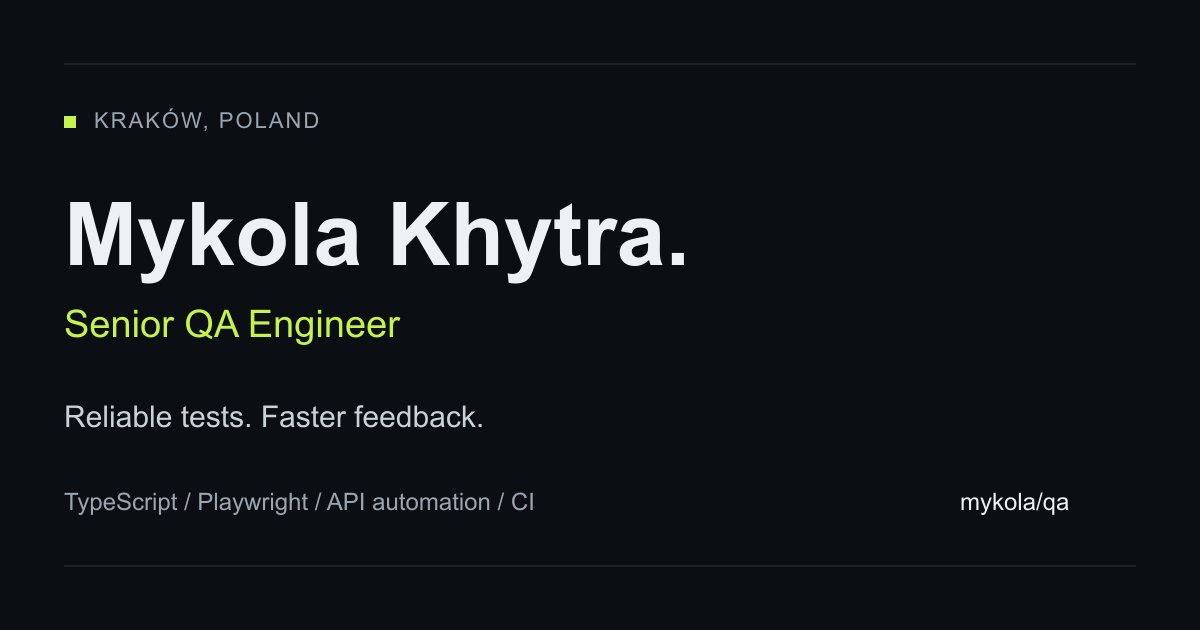
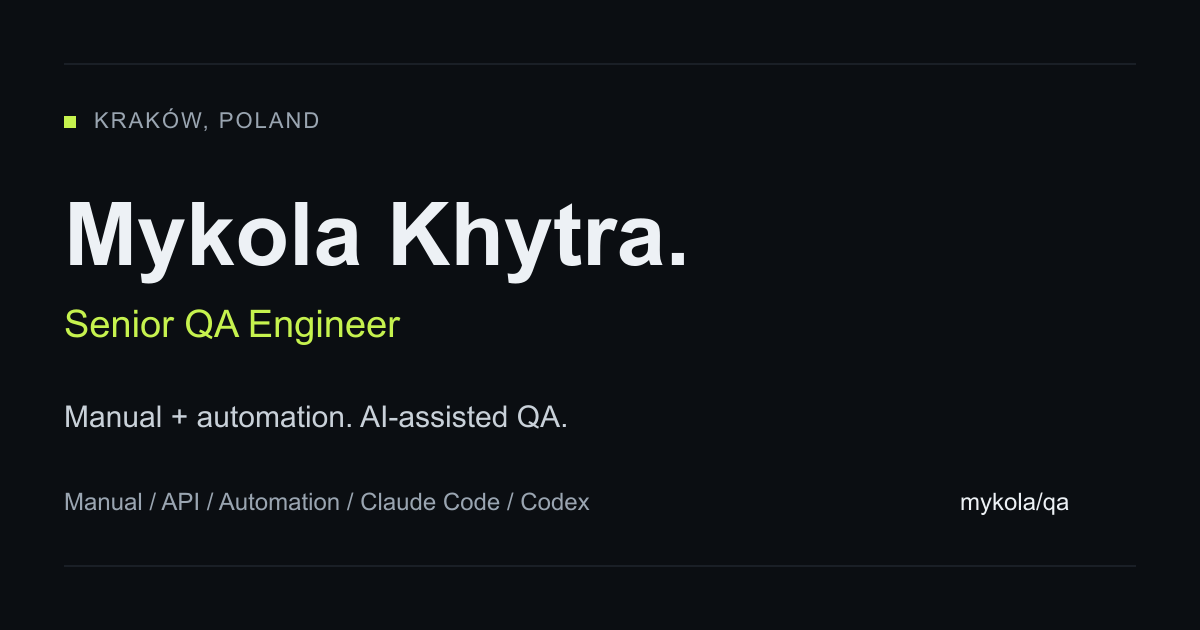
feat: broaden QA positioning and showcase practical AI workflows

Changed region(s): [[0.0617, 0.6333, 0.4625, 0.6937], [0.0308, 0.7841, 0.4933, 0.8143]]

diff --git a/index.html b/index.html
@@ -5,19 +5,19 @@
   <meta name="viewport" content="width=device-width, initial-scale=1" />
   <meta name="color-scheme" content="dark light" />
   <meta name="theme-color" content="#0b0e12" />
-  <meta name="description" content="Mykola Khytra, Senior QA Engineer in Kraków. TypeScript and Playwright automation, API regression testing, and faster CI feedback. Explore practical case studies and download my CV." />
+  <meta name="description" content="Mykola Khytra, Senior QA Engineer in Kraków. Manual, API, and automated testing with practical AI-assisted workflows using Claude Code and Codex." />
   <meta property="og:type" content="profile" />
   <meta property="og:title" content="Mykola Khytra — Senior QA Engineer" />
-  <meta property="og:description" content="Practical quality engineering: reliable API and UI automation, maintainable test suites, and faster CI feedback." />
+  <meta property="og:description" content="Manual, general, and automation QA. Product risks, release validation, and practical AI-assisted workflows with Claude Code and Codex." />
   <meta property="og:image" content="./assets/social-preview.png" />
-  <meta property="og:image:alt" content="Mykola Khytra — Senior QA Engineer. Reliable tests. Faster feedback." />
+  <meta property="og:image:alt" content="Mykola Khytra — Senior QA Engineer. Manual and automation QA, with AI-assisted workflows." />
   <meta property="og:image:width" content="1200" />
   <meta property="og:image:height" content="630" />
   <meta name="twitter:card" content="summary_large_image" />
   <title>Mykola Khytra — Senior QA Engineer</title>
   <link rel="icon" type="image/svg+xml" href="./assets/favicon.svg" />
   <link rel="preload" href="./assets/fonts/space-grotesk-latin-wght-normal.woff2" as="font" type="font/woff2" crossorigin />
-  <link rel="stylesheet" href="./styles.css?v=20261001-1" />
+  <link rel="stylesheet" href="./styles.css?v=20261001-2" />
   <!-- Production metadata is added by the build when a real URL is configured. -->
 </head>
 <body>
@@ -35,7 +35,8 @@
         <p class="eyebrow"><span class="signal-mark" aria-hidden="true"></span>Kraków, Poland</p>
         <h1 id="hero-title">Mykola Khytra.</h1>
         <p class="hero-tagline">Senior QA Engineer who makes releases boring.</p>
-        <p class="hero-lede">API and UI automation with TypeScript and Playwright. Faster CI feedback, clearer failures, and test suites the whole team can maintain.</p>
+        <p class="hero-lede">Manual, API, and automated testing. Product risks, exploratory testing, and confident release decisions.</p>
+        <p class="hero-ai"><span class="mono-label">AI-assisted QA</span> Claude Code &amp; Codex for test design, debugging, and documentation. <a href="#ai-workflow">See the workflow <span aria-hidden="true">→</span></a></p>
         <div class="hero-actions">
           <a class="button button-primary" href="#work">Explore the work <span aria-hidden="true">→</span></a>
           <a class="button button-secondary" href="./assets/downloads/mykola-khytra-cv.pdf" download>Download CV <span class="file-label">PDF</span></a>
@@ -45,7 +46,7 @@
           <div class="stat"><strong>5+</strong><span>years in QA</span></div>
           <div class="stat"><strong>11k+</strong><span>scenarios in a shared test ecosystem</span></div>
           <div class="stat"><strong>Up to 4×</strong><span>faster execution for CI jobs</span></div>
-          <div class="stat"><strong>TS</strong><span>TypeScript + Playwright</span></div>
+          <div class="stat"><strong>QA</strong><span>manual + automation</span></div>
         </div>
       </div>
     </section>
@@ -60,8 +61,28 @@
           </picture>
         </figure>
         <div class="prose about-copy">
-          <p>Five years in QA, growing from manual testing into senior automation engineering at Shelf. My work connects product risks with API and UI coverage, maintainable test code, and actionable CI results.</p>
-          <p>That means more than writing checks: investigating failures, reviewing code, building shared helpers, and leaving documentation other engineers can use. AI tools support the work; technical judgment and verification stay with me.</p>
+          <p>Five years across manual, general, and automation QA, with experience testing web applications, desktop software, APIs, and WebSockets.</p>
+          <p>The work spans the testing lifecycle: understanding product risks, designing tests, exploring behavior, reporting defects, validating releases, and building maintainable automation. AI-assisted workflows support analysis, test design, and implementation.</p>
+        </div>
+      </div>
+    </section>
+    <section id="expertise" class="section section-rule" aria-labelledby="toolbox-title">
+      <div class="container">
+        <div class="section-heading-row compact"><div><p class="eyebrow">Expertise &amp; tools</p><h2 id="toolbox-title">The right approach<br /> for the risk.</h2></div><p class="section-intro">Manual exploration, API checks, and maintainable automation across the QA lifecycle.</p></div>
+        <div class="toolbox-grid">
+          <article class="tool-group"><h3>Manual &amp; product QA</h3><p>Exploratory, functional, smoke, and regression testing. Test design, clear defect reports, and release validation.</p><div class="tag-list"><span class="tag">Test strategy</span><span class="tag">TestRail</span><span class="tag">Testomat</span></div></article>
+          <article class="tool-group"><h3>API &amp; integration QA</h3><p>API and WebSocket testing, business rules, error handling, and defect investigation. Jest, Vitest, and Axios for automated API checks.</p><div class="tag-list"><span class="tag">Postman</span><span class="tag">Swagger</span><span class="tag">REST APIs</span><span class="tag">Axios</span><span class="tag">Jest</span><span class="tag">Vitest</span></div></article>
+          <article class="tool-group"><h3>Automation &amp; delivery</h3><p>UI automation with Playwright and TypeScript. Reusable test code, faster CI feedback, and failure diagnostics.</p><div class="tag-list"><span class="tag">Playwright</span><span class="tag">TypeScript</span><span class="tag">JavaScript</span><span class="tag">CircleCI</span><span class="tag">GitHub Actions</span><span class="tag">Git</span><span class="tag">Datadog</span></div></article>
+        </div>
+      </div>
+    </section>
+    <section id="ai-workflow" class="section section-rule" aria-labelledby="ai-title">
+      <div class="container">
+        <div class="section-heading-row"><div><p class="eyebrow">AI-assisted QA</p><h2 id="ai-title">Practical AI.<br /> Verified results.</h2></div><p class="section-intro">Daily use of Claude Code and Codex for repository analysis, test design, automation code, debugging, and documentation.</p></div>
+        <div class="principles-grid">
+          <article class="principle"><span class="principle-icon" aria-hidden="true">01 / EXPLORE</span><h3>Understand the context</h3><p>Explore repositories, develop test ideas, and investigate failures with AI assistance. Product risks and existing behavior guide the questions.</p></article>
+          <article class="principle"><span class="principle-icon" aria-hidden="true">02 / DRAFT</span><h3>Build and improve</h3><p>Draft and maintain test code, refactor shared utilities, and prepare documentation. Use agents to support repeatable QA work and problem analysis.</p></article>
+          <article class="principle"><span class="principle-icon" aria-hidden="true">03 / VERIFY</span><h3>Check the result</h3><p>Review proposed changes, run relevant checks, and verify behavior manually where needed. Technical judgment stays with the engineer.</p></article>
         </div>
       </div>
     </section>
@@ -69,7 +90,7 @@
       <div class="container">
         <div class="section-heading-row">
           <div><p class="eyebrow">Selected work</p><h2 id="work-title">Less waiting.<br /> Better signals.</h2></div>
-          <p class="section-intro">Practical improvements in CI feedback, API coverage, and shared automation from my work at Shelf.</p>
+          <p class="section-intro">Selected automation and process improvements from Shelf, alongside the wider manual and general QA experience described below.</p>
         </div>
         <div class="work-grid">
           <article class="card case-card">
@@ -125,12 +146,12 @@
     </section>
     <section class="section section-rule" aria-labelledby="experience-title">
       <div class="container section-heading-row">
-        <div><p class="eyebrow">Experience</p><h2 id="experience-title">From testing<br /> to engineering.</h2><a class="text-link experience-cv" href="./assets/downloads/mykola-khytra-cv.pdf" download>Full experience in my CV <span class="file-label">PDF</span></a></div>
+        <div><p class="eyebrow">Experience</p><h2 id="experience-title">Across the QA<br /> lifecycle.</h2><a class="text-link experience-cv" href="./assets/downloads/mykola-khytra-cv.pdf" download>Full experience in my CV <span class="file-label">PDF</span></a></div>
         <ol class="experience-list">
           <li><p class="mono-label">Jan 2024 – Jul 2026 · Shelf · Remote</p><h3>Senior Automation QA Engineer</h3><p>Shared automation, CI optimization, API coverage, code reviews, and an independent TestRail-to-Testomat migration.</p></li>
-          <li><p class="mono-label">Oct 2022 – Jan 2024 · Shelf · Lviv</p><h3>Hybrid QA Engineer</h3><p>Combined manual testing with TypeScript automation, Playwright, Jest, and CircleCI.</p></li>
-          <li><p class="mono-label">Nov 2021 – Oct 2022 · Shelf · Lviv</p><h3>Junior QA Engineer</h3><p>Manual, API, and WebSocket testing, with test documentation and defect investigation.</p></li>
-          <li><p class="mono-label">Apr 2021 – Oct 2021 · StarApps · Lviv</p><h3>Trainee QA Engineer</h3><p>Web and desktop testing for EV charging and energy-related products.</p></li>
+          <li><p class="mono-label">Oct 2022 – Jan 2024 · Shelf · Lviv</p><h3>Hybrid QA Engineer</h3><p>Combined manual product testing and API checks with TypeScript automation, Playwright, Jest, and CircleCI.</p></li>
+          <li><p class="mono-label">Nov 2021 – Oct 2022 · Shelf · Lviv</p><h3>Junior QA Engineer</h3><p>Manual, API, and WebSocket testing, test documentation, defect reporting, and investigation.</p></li>
+          <li><p class="mono-label">Apr 2021 – Oct 2021 · StarApps · Lviv</p><h3>Trainee QA Engineer</h3><p>Manual web and desktop testing for EV charging and energy-related products.</p></li>
         </ol>
       </div>
     </section>
@@ -144,29 +165,19 @@
         </div>
       </div>
     </section>
-    <section class="section section-rule" aria-labelledby="toolbox-title">
-      <div class="container">
-        <div class="section-heading-row compact"><div><p class="eyebrow">Toolbox</p><h2 id="toolbox-title">Tools for the job.</h2></div><p class="section-intro">A practical stack for testing, delivery, and investigation.</p></div>
-        <div class="toolbox-grid">
-          <div class="tool-group"><h3 class="mono-label">Automation</h3><div class="tag-list"><span class="tag">Playwright</span><span class="tag">TypeScript</span><span class="tag">JavaScript</span><span class="tag">Jest</span><span class="tag">Vitest</span></div></div>
-          <div class="tool-group"><h3 class="mono-label">API + delivery</h3><div class="tag-list"><span class="tag">Axios</span><span class="tag">REST APIs</span><span class="tag">Postman</span><span class="tag">Swagger</span><span class="tag">Git</span><span class="tag">GitHub Actions</span><span class="tag">CircleCI</span></div></div>
-          <div class="tool-group"><h3 class="mono-label">Engineering</h3><div class="tag-list"><span class="tag">Datadog</span><span class="tag">TestRail</span><span class="tag">Testomat</span><span class="tag">Test strategy</span><span class="tag">AI-assisted workflows</span></div></div>
-        </div>
-      </div>
-    </section>
     <section id="writing" class="section section-rule" aria-labelledby="writing-title">
       <div class="container writing-grid">
         <div><p class="eyebrow">Engineering notes</p><h2 id="writing-title">Three things<br /> worth asking.</h2><p class="section-intro notes-intro">Practical ideas behind everyday quality decisions.</p></div>
         <div class="writing-list">
           <article class="writing-item"><p class="mono-label">Quality engineering</p><h3>Is this test worth keeping?</h3><p>A useful check protects an important behavior and produces a failure someone can act on. If it is flaky or costly to maintain, fix its foundations or reconsider what it is testing. A bigger suite is not automatically a better one.</p></article>
-          <article class="writing-item"><p class="mono-label">AI-assisted testing</p><h3>Where does AI help?</h3><p>Code exploration, test ideas, refactoring, and documentation are good starting points. Generated changes still need review and execution against real behavior. Faster drafting is useful; unverified confidence is not.</p></article>
+          <article class="writing-item"><p class="mono-label">Exploratory testing</p><h3>What does a script miss?</h3><p>Exploratory sessions follow questions: where do users get stuck, which assumptions fail, and how does the product handle unusual states? Findings become reproducible defects, new test ideas, or candidates for automation.</p></article>
           <article class="writing-item"><p class="mono-label">CI/CD</p><h3>What does green actually mean?</h3><p>Only that the checks which ran passed. Trust also depends on what they cover, what was skipped, how failures are investigated, and whether the result arrived soon enough to influence a decision.</p></article>
         </div>
       </div>
     </section>
     <section id="contact" class="section section-contact" aria-labelledby="contact-title">
       <div class="container contact-grid">
-        <div><p class="eyebrow">Contact</p><h2 id="contact-title">Let’s talk<br /> about quality.</h2><p class="contact-lede">Hiring a Senior QA Engineer or SDET? Let’s discuss your product risks, automation challenges, and what useful quality feedback looks like for your team.</p><p class="availability"><span class="status-dot" aria-hidden="true"></span>Based in Kraków · Open to remote roles</p></div>
+        <div><p class="eyebrow">Contact</p><h2 id="contact-title">Let’s talk<br /> about quality.</h2><p class="contact-lede">Need help with product quality? Let’s discuss manual testing, API coverage, release validation, and AI-assisted automation.</p><p class="role-scope">Manual, general, and automation QA.</p><p class="availability"><span class="status-dot" aria-hidden="true"></span>Based in Kraków · Open to remote roles</p></div>
         <div class="contact-links">
           <a class="contact-link" href="mailto:mykola.m.khytra@gmail.com"><span class="contact-label">Email</span><strong>mykola.m.khytra@gmail.com</strong><span class="contact-arrow" aria-hidden="true">↗</span></a>
           <a class="contact-link" href="https://www.linkedin.com/in/mykola-khytra/" target="_blank" rel="noopener noreferrer"><span class="contact-label">LinkedIn <span class="sr-only">(opens in a new tab)</span></span><strong>Mykola Khytra</strong><span class="contact-arrow" aria-hidden="true">↗</span></a>

diff --git a/styles.css b/styles.css
@@ -53,6 +53,9 @@ h3 { font-size: 24px; line-height: 1.3; }
 .eyebrow + h2 { margin-top: 12px; }
 .hero-tagline { max-width: 36ch; margin: 24px 0 0; color: var(--accent); font: 500 clamp(22px, 2.4vw, 30px)/1.35 var(--font-display); letter-spacing: -.02em; }
 .hero-lede { max-width: 55ch; margin: 16px 0 0; color: var(--text-body); font-size: 20px; line-height: 1.55; }
+.hero-ai { max-width: 62ch; margin: 16px 0 0; color: var(--text-body); font-size: 16px; line-height: 1.6; }
+.hero-ai .mono-label { display: inline-block; margin-right: 8px; }
+.hero-ai a { display: inline-flex; align-items: center; gap: 8px; min-height: 44px; color: var(--accent); text-underline-offset: 4px; white-space: nowrap; }
 .hero-actions { display: flex; align-items: center; flex-wrap: wrap; gap: 12px 20px; margin-top: 32px; }
 .button { display: inline-flex; justify-content: center; align-items: center; gap: 12px; min-height: 48px; padding: 12px 18px; border: 1px solid transparent; border-radius: 6px; font: 600 15px/1.4 var(--font-sans); text-decoration: none; transition: background-color 160ms ease, color 160ms ease, border-color 160ms ease; }
 .button-primary { background: var(--accent); color: var(--bg-page); }
@@ -110,8 +113,10 @@ details[open] .disclosure-mark { transform: rotate(45deg); }
 .principle-icon { color: var(--accent); font: 500 12px/1.4 var(--font-mono); }
 .principle h3 { margin: 16px 0 10px; font-size: 22px; }
 .principle p { margin: 0; color: var(--text-muted); }
-.tool-group { padding: 24px; background: var(--bg-sunken); border: 1px solid var(--border-hairline); border-radius: 10px; }
-.tool-group .tag-list { margin-top: 24px; }
+.tool-group { display: flex; flex-direction: column; padding: 24px; background: var(--bg-sunken); border: 1px solid var(--border-hairline); border-radius: 10px; }
+.tool-group h3 { font-size: 22px; }
+.tool-group p { margin: 12px 0 0; color: var(--text-body); }
+.tool-group .tag-list { margin-top: auto; padding-top: 24px; }
 .writing-list { border-top: 1px solid var(--border-hairline); }
 .writing-item { padding: 24px 0; border-bottom: 1px solid var(--border-hairline); }
 .writing-item h3 { margin: 10px 0 12px; font-size: 22px; }
@@ -120,6 +125,7 @@ details[open] .disclosure-mark { transform: rotate(45deg); }
 .section-contact { background: var(--bg-sunken); }
 .contact-grid { grid-template-columns: 1fr 1fr; }
 .contact-lede { max-width: 48ch; margin: 24px 0; color: var(--text-muted); font-size: 18px; }
+.role-scope { color: var(--text-body); font-weight: 500; }
 .availability { display: flex; align-items: center; gap: 12px; color: var(--text-body); font: 400 12px/1.7 var(--font-mono); }
 .contact-links { min-width: 0; border-top: 1px solid var(--border-hairline); }
 .contact-link { display: grid; grid-template-columns: minmax(0, 1fr) 20px; gap: 8px 16px; align-items: center; padding: 18px 4px; border-bottom: 1px solid var(--border-hairline); text-decoration: none; }
@@ -177,7 +183,7 @@ details[open] .disclosure-mark { transform: rotate(45deg); }
 @media print {
   :root { color-scheme: light; }
   body { background: white; color: #222; font-size: 11pt; }
-  h1, h2, h3, .prose, .prose strong, .hero-tagline, .hero-lede, .stat strong, .stat span, .eyebrow, .mono-label, .section-intro, .case-card p, .principle p, .experience-list p:last-child, .writing-item p:last-child, .contact-lede, .contact-link strong, .contact-label, .availability, .footer-inner, .tag, summary, .case-number, .case-type { color: #222; }
+  h1, h2, h3, .prose, .prose strong, .hero-tagline, .hero-lede, .hero-ai, .hero-ai a, .stat strong, .stat span, .eyebrow, .mono-label, .section-intro, .case-card p, .principle p, .tool-group p, .experience-list p:last-child, .writing-item p:last-child, .contact-lede, .role-scope, .contact-link strong, .contact-label, .availability, .footer-inner, .tag, summary, .case-number, .case-type { color: #222; }
   .site-header, .skip-link, .hero-actions, .case-link, .experience-cv, .contact-arrow, .status-dot, .disclosure-mark { display: none; }
   .container { width: 100%; }
   .hero-inner, .section { padding: 20px 0; }

diff --git a/README.md b/README.md
@@ -65,6 +65,11 @@ The `quality` and `browser-regression` checks are required before merging.
 
 - Edit copy in `index.html`; claim team-scale figures as a shared ecosystem, not
   individually authored tests. Keep experience and availability current.
+- Positioning spans manual, general and automation QA. Expertise precedes the
+  automation case studies; the AI workflow describes confirmed uses of Claude Code
+  and Codex without claiming AI-product/LLM expertise or measured AI speedups.
+- New manual or AI case studies need a real task, personal contribution and
+  supported outcome. Do not invent them to balance the existing automation cases.
 - CI performance improvements covered many jobs, with speedups of up to four
   times, not all jobs or the whole delivery pipeline. The 60-to-15-minute reduction
   is a concrete result, not a promise of the same speedup for every job. Overnight
